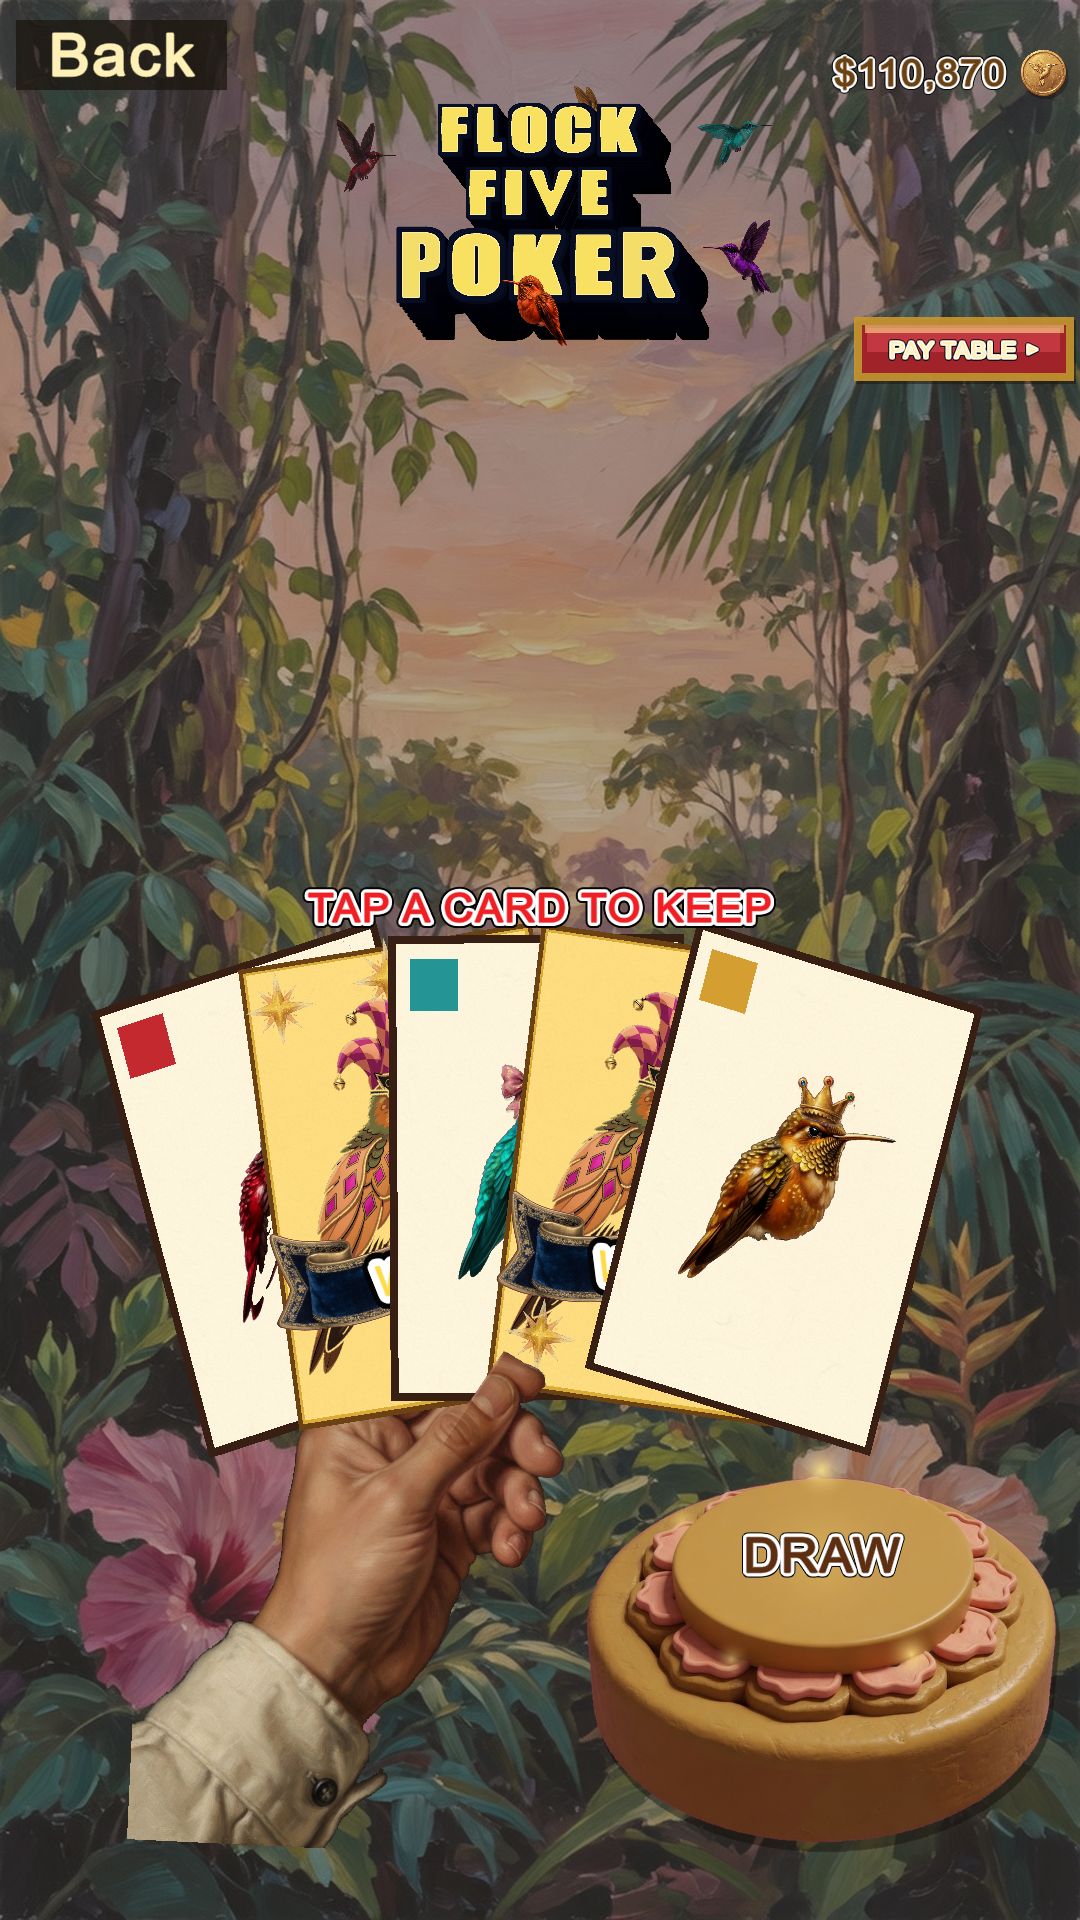
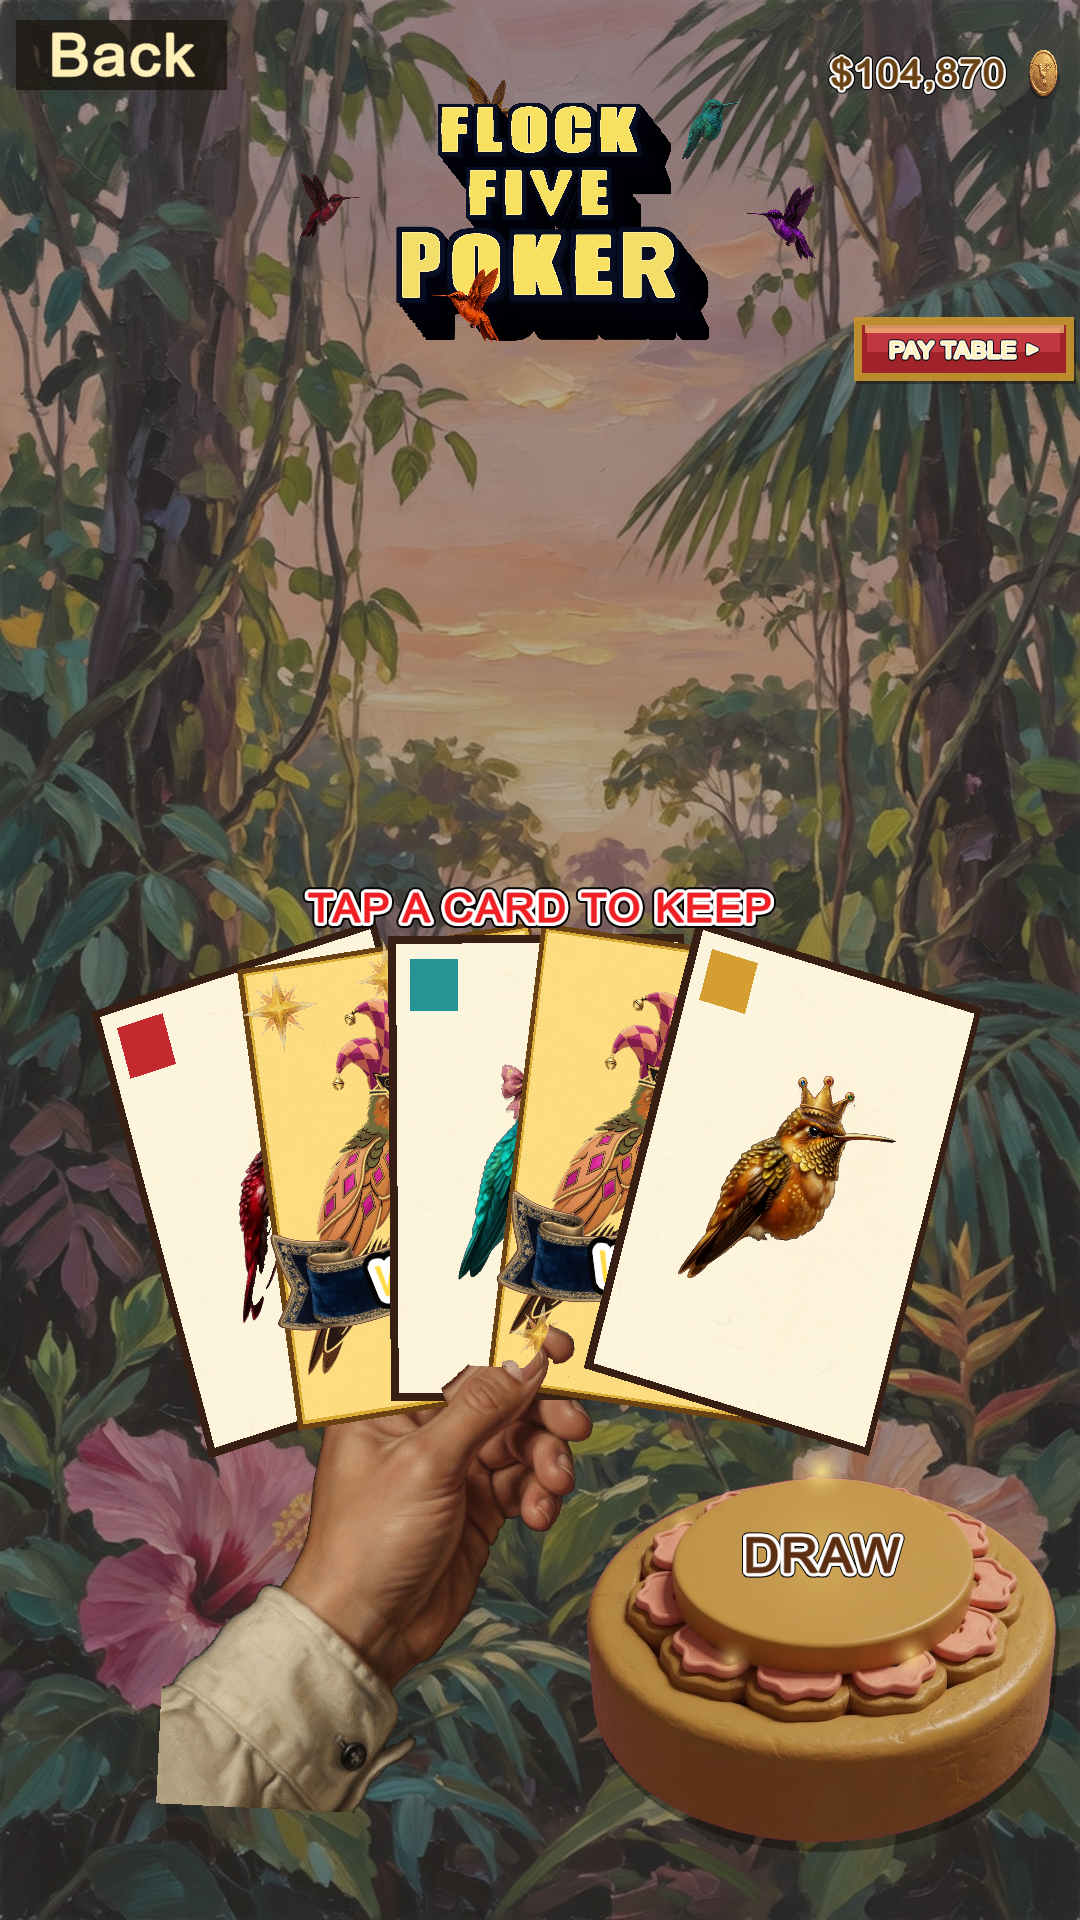
Poker: pass 4 — full thumb in front of the fan
Front layer is the complete thumb pad and nail on the bottom rims.
Forefinger stays in the back layer so it is not the front digit.
Pinch UV follows the nail. Avoid and bottom-pinch geometry kept.
Playrun DONE 3/3, mid=0.

diff --git a/Assets/_Project/Scripts/App/FlockFiveApp.cs b/Assets/_Project/Scripts/App/FlockFiveApp.cs
@@ -1011,7 +1011,7 @@ namespace FlockFive
         {
             System.IO.Directory.CreateDirectory(dir);
             SpriteCatalog.DropPokerArt();
-            Debug.Log("Flock Five: ShotPokerFaces start " + dir + " pass3-pinch-hold");
+            Debug.Log("Flock Five: ShotPokerFaces start " + dir + " pass4-thumb-front");
             _home = HomeFace.Poker;
             _splash = true;
             _pokerPayOpen = false;
@@ -4892,9 +4892,9 @@ namespace FlockFive
         const float DealBumpT = 0.24f;
         const float PokerFanScale = 1.42f;
         const float PokerFanSpan = 0.46f;
-        // Thumb pad at the bottom-fan pinch (nail/pad of the new hold art).
-        const float PokerFanPinchU = 0.554f;
-        const float PokerFanPinchV = 0.435f;
+        // Full thumb pad/nail at the bottom-fan pinch (front layer = thumb only).
+        const float PokerFanPinchU = 0.512f;
+        const float PokerFanPinchV = 0.48f;
         const float PokerFanHandAspect = 0.80f;
 
         static float PokerAliveBreathe() => Mathf.Sin(Time.unscaledTime * 1.18f);
